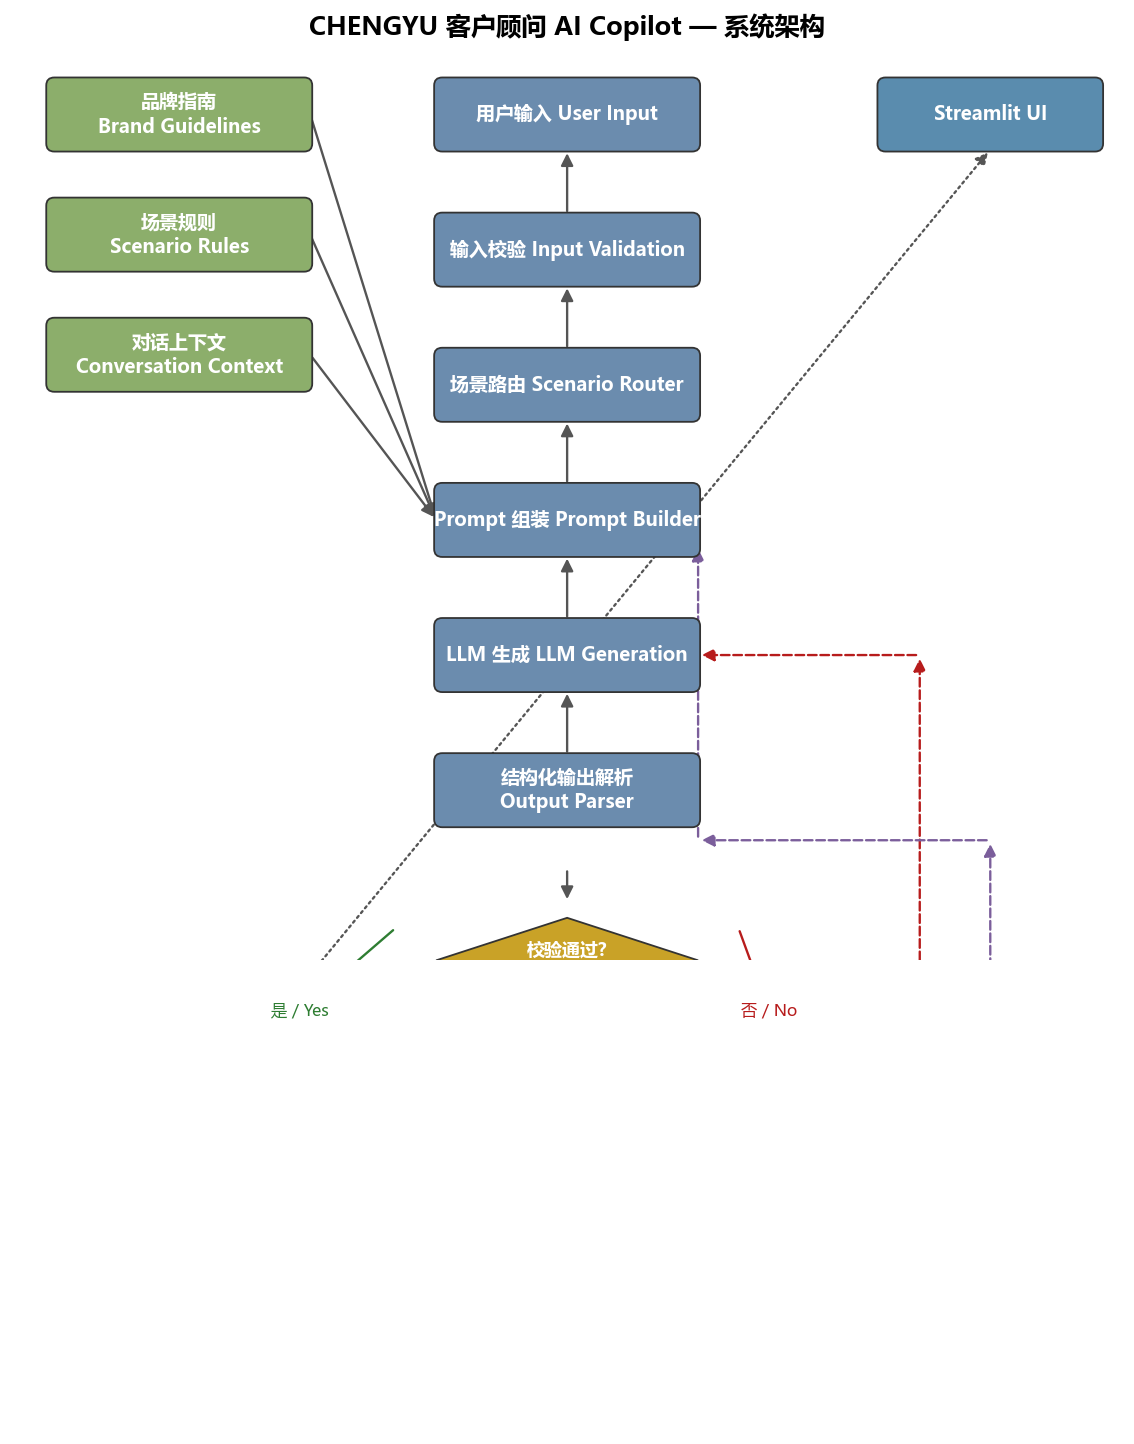
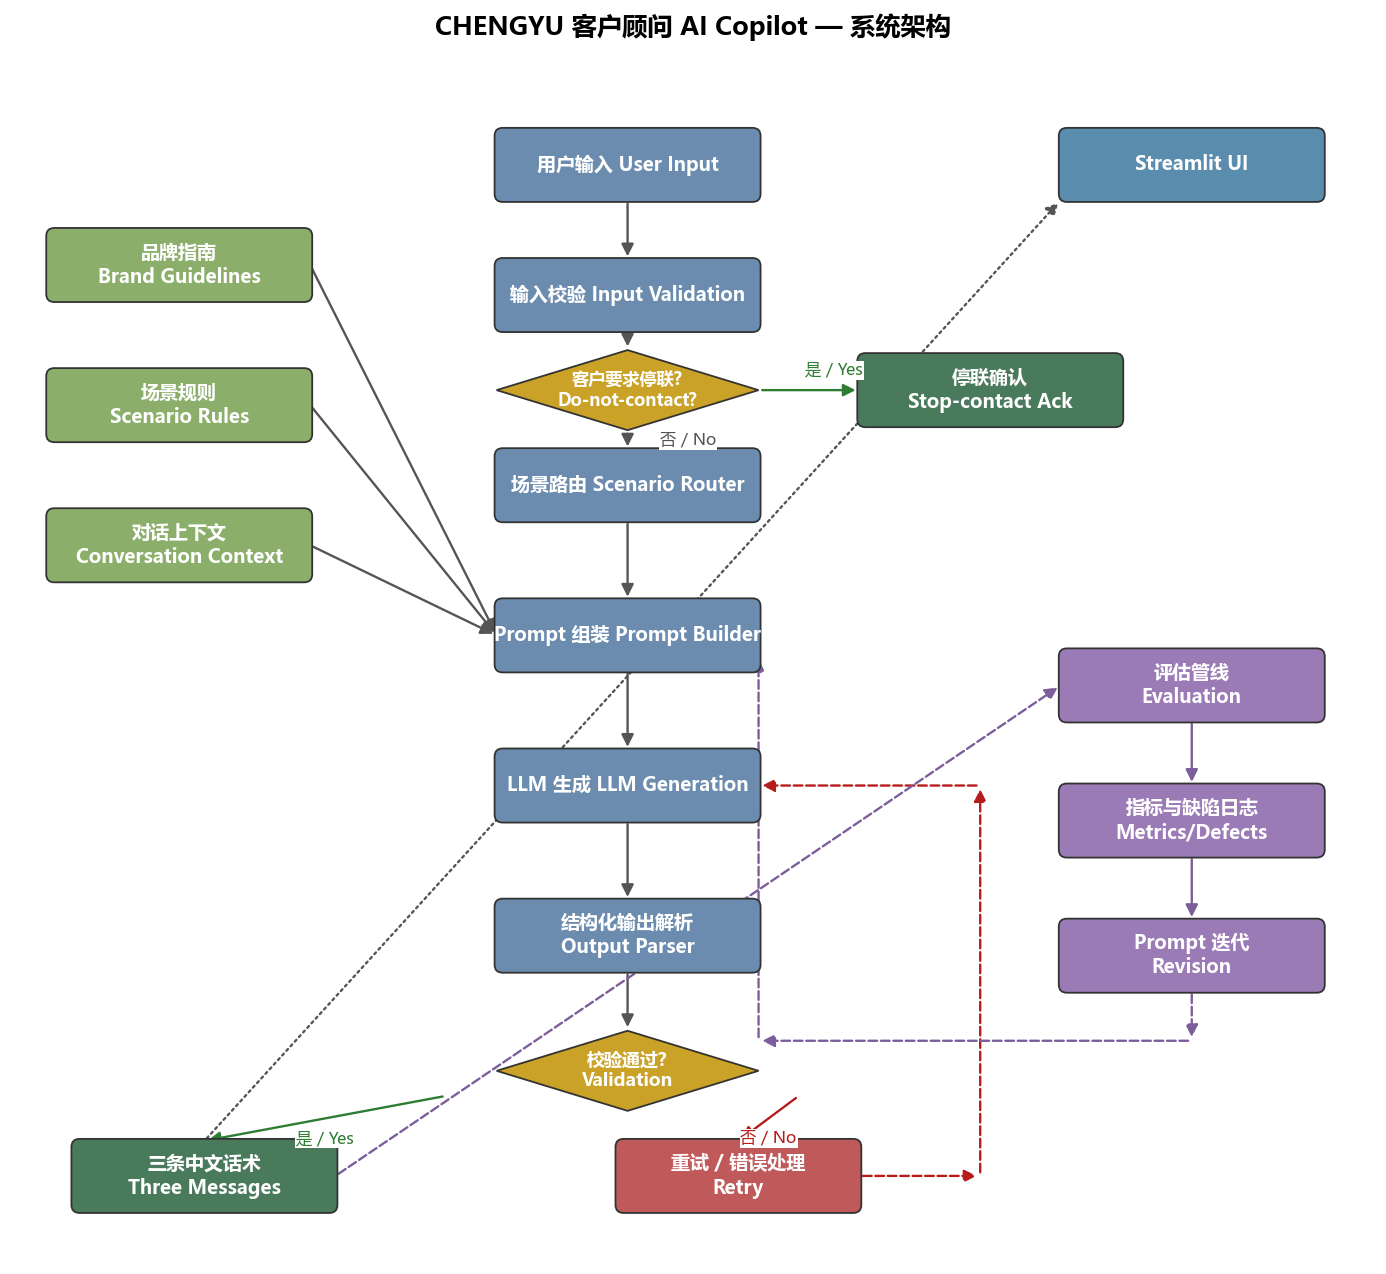
Add do-not-contact branch to architecture diagram
Also fixes the bottom boxes (output/retry/evaluation) that were
rendered at negative y and silently clipped from the PNG.

diff --git a/scripts/make_architecture.py b/scripts/make_architecture.py
@@ -63,97 +63,95 @@ def main() -> None:
     out_dir = config.REPORTS_DIR / "screenshots"
     out_dir.mkdir(parents=True, exist_ok=True)
 
-    fig, ax = plt.subplots(figsize=(11, 9))
-    ax.set_xlim(0, 11)
-    ax.set_ylim(0, 9)
+    fig, ax = plt.subplots(figsize=(13.5, 12))
+    ax.set_xlim(0, 13.5)
+    ax.set_ylim(0, 12)
     ax.axis("off")
 
-    BW, BH = 2.6, 0.7  # box width / height
+    BH = 0.7          # box height
+    cx = 4.8          # main spine left x
+    cw = 2.6          # main box width
+    mid_x = cx + cw / 2  # 6.1
 
-    # --- Center main pipeline (x from 4.2 to 6.8) ---
-    cx = 4.2
-    cw = 2.6
+    # --- Center main pipeline (top to bottom; value = box bottom y) ---
+    pos = {
+        "用户输入 User Input": 10.6,
+        "输入校验 Input Validation": 9.3,
+        "场景路由 Scenario Router": 7.4,
+        "Prompt 组装 Prompt Builder": 5.9,
+        "LLM 生成 LLM Generation": 4.4,
+        "结构化输出解析\nOutput Parser": 2.9,
+    }
+    for label, y in pos.items():
+        box(ax, cx, y, cw, BH, label, C_MAIN, fs=10.5)
 
-    nodes = [
-        ("用户输入 User Input", C_MAIN),
-        ("输入校验 Input Validation", C_MAIN),
-        ("场景路由 Scenario Router", C_MAIN),
-        ("Prompt 组装 Prompt Builder", C_MAIN),
-        ("LLM 生成 LLM Generation", C_MAIN),
-        ("结构化输出解析\nOutput Parser", C_MAIN),
-    ]
-    y0 = 8.1
-    gap = 1.35
-    positions = {}
-    for i, (label, col) in enumerate(nodes):
-        y = y0 - i * gap
-        positions[label] = (cx, y)
-        box(ax, cx, y, cw, BH, label, col, fs=10.5)
+    # Do-not-contact decision (inline, between 输入校验 and 场景路由).
+    dnc_cy = 8.7
+    dnc_h = 0.8
+    diamond(ax, cx, dnc_cy - dnc_h / 2, cw, dnc_h, "客户要求停联?\nDo-not-contact?", C_DECIDE, fs=9.5)
+    # 停联确认 terminal (branch right on "是 / Yes").
+    box(ax, 8.4, dnc_cy - BH / 2, 2.6, BH, "停联确认\nStop-contact Ack", C_OUTPUT, fs=10.5)
 
-    # Decision diamond
-    dy = y0 - 6 * gap
-    dw, dh = 2.6, 0.85
-    diamond(ax, cx, dy - dh / 2, dw, dh, "校验通过?\nValidation", C_DECIDE, fs=10)
+    # Validation decision (after 输出解析).
+    val_cy = 1.9
+    val_h = 0.8
+    diamond(ax, cx, val_cy - val_h / 2, cw, val_h, "校验通过?\nValidation", C_DECIDE, fs=10)
 
-    # Final output + retry
-    out_y = dy - dh / 2 - 1.7
-    box(ax, cx - 3.6, out_y, 2.6, BH, "三条中文话术\nThree Messages", C_OUTPUT, fs=10.5)
-    box(ax, cx + 1.0, out_y, 2.4, BH, "重试 / 错误处理\nRetry", "#c05a5a", fs=10.5)
+    # Final output + retry (bottom row).
+    out_y = 0.5
+    box(ax, 0.6, out_y, 2.6, BH, "三条中文话术\nThree Messages", C_OUTPUT, fs=10.5)
+    box(ax, 6.0, out_y, 2.4, BH, "重试 / 错误处理\nRetry", "#c05a5a", fs=10.5)
 
-    # Vertical main arrows
-    prev_y = positions[nodes[0][0]]
-    for i in range(1, len(nodes)):
-        label = nodes[i][0]
-        y = positions[label][1]
-        arrow(ax, cx + cw / 2, y + BH, cx + cw / 2, y + BH + 0.65, color=C_EDGE)
+    # --- Main spine arrows (top-down) ---
+    arrow(ax, mid_x, pos["用户输入 User Input"], mid_x, pos["输入校验 Input Validation"] + BH, color=C_EDGE)
+    arrow(ax, mid_x, pos["输入校验 Input Validation"], mid_x, dnc_cy + dnc_h / 2, color=C_EDGE)
+    arrow(ax, mid_x, dnc_cy - dnc_h / 2, mid_x, pos["场景路由 Scenario Router"] + BH, color=C_EDGE, label="否 / No", lx=0.6, ly=0.0)
+    arrow(ax, cx + cw, dnc_cy, 8.4, dnc_cy, color="#2e7d32", label="是 / Yes", lx=0.25, ly=0.2)
+    arrow(ax, mid_x, pos["场景路由 Scenario Router"], mid_x, pos["Prompt 组装 Prompt Builder"] + BH, color=C_EDGE)
+    arrow(ax, mid_x, pos["Prompt 组装 Prompt Builder"], mid_x, pos["LLM 生成 LLM Generation"] + BH, color=C_EDGE)
+    arrow(ax, mid_x, pos["LLM 生成 LLM Generation"], mid_x, pos["结构化输出解析\nOutput Parser"] + BH, color=C_EDGE)
+    arrow(ax, mid_x, pos["结构化输出解析\nOutput Parser"], mid_x, val_cy + val_h / 2, color=C_EDGE)
 
-    # LLM generation -> parser -> decision
-    arrow(ax, cx + cw / 2, dy + dh / 2 + 0.5, cx + cw / 2, dy + dh / 2 + 0.15, color=C_EDGE)
+    # Validation -> output (yes) / retry (no).
+    arrow(ax, cx - 0.5, val_cy - val_h / 2 + 0.15, 1.9, out_y + BH, color="#2e7d32", label="是 / Yes", lx=0.0, ly=-0.2)
+    arrow(ax, cx + cw + 0.4, val_cy - val_h / 2 + 0.15, 7.2, out_y + BH, color="#b71c1c", label="否 / No", lx=0.0, ly=-0.2)
 
-    # Decision -> output (yes) and -> retry (no)
-    arrow(ax, cx - 0.4, dy + dh / 2 - 0.1, cx - 2.3, out_y + BH + 0.1, color="#2e7d32", label="是 / Yes")
-    arrow(ax, cx + cw + 0.4, dy + dh / 2 - 0.1, cx + cw + 1.0, out_y + BH + 0.1, color="#b71c1c", label="否 / No")
-
-    # Retry loops back to LLM generation
-    arrow(ax, cx + cw + 2.2, out_y + BH / 2, cx + cw + 2.2, positions[nodes[4][0]][1] + BH / 2,
-          color="#b71c1c", ls="--")
-    arrow(ax, cx + cw + 2.2, positions[nodes[4][0]][1] + BH / 2, cx + cw, positions[nodes[4][0]][1] + BH / 2,
-          color="#b71c1c", ls="--")
+    # Retry loops back to LLM generation.
+    arrow(ax, 8.4, out_y + BH / 2, 9.6, out_y + BH / 2, color="#b71c1c", ls="--")
+    arrow(ax, 9.6, out_y + BH / 2, 9.6, pos["LLM 生成 LLM Generation"] + BH / 2, color="#b71c1c", ls="--")
+    arrow(ax, 9.6, pos["LLM 生成 LLM Generation"] + BH / 2, cx + cw, pos["LLM 生成 LLM Generation"] + BH / 2, color="#b71c1c", ls="--")
 
     # --- Left context inputs -> Prompt Builder ---
-    lx = 0.35
-    lw = 2.6
+    lx, lw = 0.35, 2.6
     ctx = [
-        ("品牌指南\nBrand Guidelines", 8.1),
-        ("场景规则\nScenario Rules", 6.9),
-        ("对话上下文\nConversation Context", 5.7),
+        ("品牌指南\nBrand Guidelines", 9.6),
+        ("场景规则\nScenario Rules", 8.2),
+        ("对话上下文\nConversation Context", 6.8),
     ]
-    pb_x, pb_y = positions["Prompt 组装 Prompt Builder"]
+    pb_y = pos["Prompt 组装 Prompt Builder"]
     for label, yy in ctx:
         box(ax, lx, yy, lw, BH, label, C_INPUT, fs=10.5)
         arrow(ax, lx + lw, yy + BH / 2, cx, pb_y + BH / 2, color=C_EDGE)
 
     # --- Right evaluation loop ---
-    rx = 8.6
-    rw = 2.2
-    ev_y = out_y + 0.0
-    box(ax, rx, ev_y, rw, BH, "评估管线\nEvaluation", C_EVAL, fs=10.5)
-    box(ax, rx, ev_y - 1.35, rw, BH, "指标与缺陷日志\nMetrics/Defects", C_EVAL, fs=10.5)
-    box(ax, rx, ev_y - 2.7, rw, BH, "Prompt 迭代\nRevision", C_EVAL, fs=10.5)
+    rx, rw = 10.4, 2.6
+    box(ax, rx, 5.4, rw, BH, "评估管线\nEvaluation", C_EVAL, fs=10.5)
+    box(ax, rx, 4.05, rw, BH, "指标与缺陷日志\nMetrics/Defects", C_EVAL, fs=10.5)
+    box(ax, rx, 2.7, rw, BH, "Prompt 迭代\nRevision", C_EVAL, fs=10.5)
 
     # output -> evaluation
-    arrow(ax, cx - 3.6 + 2.6, out_y + BH / 2, rx, out_y + BH / 2, color="#7b5e9b")
+    arrow(ax, 3.2, out_y + BH / 2, rx, 5.4 + BH / 2, color="#7b5e9b", ls="--")
     # evaluation chain down
-    arrow(ax, rx + rw / 2, ev_y, rx + rw / 2, ev_y - 0.65, color="#7b5e9b")
-    arrow(ax, rx + rw / 2, ev_y - 1.35, rx + rw / 2, ev_y - 2.0, color="#7b5e9b")
+    arrow(ax, rx + rw / 2, 5.4, rx + rw / 2, 4.75, color="#7b5e9b")
+    arrow(ax, rx + rw / 2, 4.05, rx + rw / 2, 3.4, color="#7b5e9b")
     # revision -> prompt builder (feedback)
-    arrow(ax, rx + rw / 2, ev_y - 2.7, rx + rw / 2, 1.2, color="#7b5e9b", ls="--")
-    arrow(ax, rx + rw / 2, 1.2, cx + cw, 1.2, color="#7b5e9b", ls="--")
-    arrow(ax, cx + cw, 1.2, cx + cw, pb_y + 0.1, color="#7b5e9b", ls="--")
+    arrow(ax, rx + rw / 2, 2.7, rx + rw / 2, 2.2, color="#7b5e9b", ls="--")
+    arrow(ax, rx + rw / 2, 2.2, cx + cw, 2.2, color="#7b5e9b", ls="--")
+    arrow(ax, cx + cw, 2.2, cx + cw, pb_y + 0.15, color="#7b5e9b", ls="--")
 
     # Streamlit UI output
-    box(ax, 8.6, 8.1, 2.2, BH, "Streamlit UI", "#5a8cae", fs=10.5)
-    arrow(ax, cx - 3.6 + 1.3, out_y + BH, 9.7, 8.1, color=C_EDGE, ls=":")
+    box(ax, 10.4, 10.6, 2.6, BH, "Streamlit UI", "#5a8cae", fs=10.5)
+    arrow(ax, 1.9, out_y + BH, 10.4, 10.6, color=C_EDGE, ls=":")
 
     ax.set_title("CHENGYU 客户顾问 AI Copilot — 系统架构", fontsize=14, pad=14, fontweight="bold")
 
